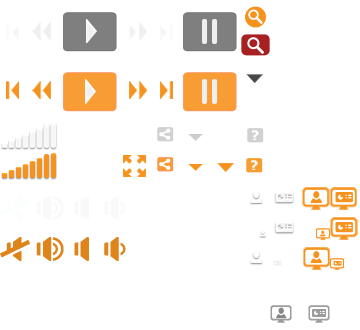
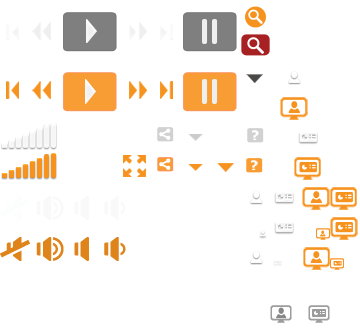
MH-5899, MH-5936, MH-5938, MH-5943, MH-5952
git-svn-id: https://opencast.jira.com/svn/MH/trunk@9336 e6edf6fb-f266-4316-afb4-e53d95876a76

Changed region(s): [[0.7944, 0.3939, 0.9167, 0.5455], [0.7639, 0.2727, 0.8556, 0.3636]]

diff --git a/shared-resources/player/engage-hybrid-player/css/player-multi-hybrid-icons.css b/shared-resources/player/engage-hybrid-player/css/player-multi-hybrid-icons.css
@@ -84,7 +84,7 @@ input
   text-decoration: underline;
 }
 #oc_series a:hover {
-  text-decoration: none; 
+  text-decoration: none;
 }
 
 
@@ -101,7 +101,7 @@ input
   height:                   40px;
 }
 
-.oc_btn-skip-backward:hover, .oc_btn-skip-backward:focus 
+.oc_btn-skip-backward:hover, .oc_btn-skip-backward:focus
 {
   background-position: 0px -69px;
 }
@@ -124,7 +124,7 @@ input
   width:                    60px;
   height:                   40px;
 }
-.oc_btn-play:hover, .oc_btn-play:focus 
+.oc_btn-play:hover, .oc_btn-play:focus
 {
   background-position: -60px -72px;
 }
@@ -160,7 +160,7 @@ input
   height:                   40px;
 }
 
-.oc_btn-skip-forward:hover, .oc_btn-skip-forward:focus 
+.oc_btn-skip-forward:hover, .oc_btn-skip-forward:focus
 {
   background-position: -150px -69px;
 }
@@ -175,7 +175,7 @@ input
   height:                   30px;
 }
 
-.oc_btn-volume-high:hover, .oc_btn-volume-high:focus 
+.oc_btn-volume-high:hover, .oc_btn-volume-high:focus
 {
   background-position: -30px -234px;
 }
@@ -189,7 +189,7 @@ input
   height:                   30px;
 }
 
-.oc_btn-volume-mute:hover, .oc_btn-volume-mute:focus 
+.oc_btn-volume-mute:hover, .oc_btn-volume-mute:focus
 {
   background-position: 0px -234px;
 }
@@ -203,7 +203,7 @@ input
   height:                   30px;
 }
 
-.oc_btn-volume-low:hover, .oc_btn-volume-low:focus 
+.oc_btn-volume-low:hover, .oc_btn-volume-low:focus
 {
   background-position: -98px -234px;
 }
@@ -217,7 +217,7 @@ input
   height:                   30px;
 }
 
-.oc_btn-volume-none:hover, .oc_btn-volume-none:focus 
+.oc_btn-volume-none:hover, .oc_btn-volume-none:focus
 {
   background-position: -68px -234px;
 }
@@ -231,19 +231,25 @@ input
 
 .oc_btn-singleDisplay-presenter
 {
-  background:               url("../img/oc_icons_2.png") no-repeat -240px -300px transparent;
+  background:               url("../img/oc_icons_2.png") no-repeat -270px -65px transparent;
   width:                    60px;
   height:                   30px;
   margin-right:             5px;
   margin-left:              5px;
 }
+.oc_btn-singleDisplay-presenter:focus, .oc_btn-singleDisplay-presenter:hover {
+background-position: -270px -95px;
+}
 .oc_btn-singleDisplay-presentation
 {
-  background:               url("../img/oc_icons_2.png") no-repeat -300px -300px transparent;
+  background:               url("../img/oc_icons_2.png") no-repeat -270px -125px transparent;
   width:                    60px;
   height:                   30px;
   margin-right:             5px;
   margin-left:              5px;
+}
+.oc_btn-singleDisplay-presentation:focus, .oc_btn-singleDisplay-presentation:hover {
+background-position: -270px -155px;
 }
 
 #oc_btn-singleDisplay {
@@ -273,6 +279,9 @@ input
   margin-right:             5px;
   margin-left:              5px;
 }
+.oc_btn-bigLeftDisplay:focus, .oc_btn-bigLeftDisplay:hover {
+background-position: -300px -245px;
+}
 
 .oc_btn-centerDisplay
 {
@@ -282,6 +291,9 @@ input
   margin-right:             5px;
   margin-left:              5px;
 }
+.oc_btn-centerDisplay:focus, .oc_btn-centerDisplay:hover {
+background-position: -300px -185px;
+}
 
 .oc_btn-bigRightDisplay
 {
@@ -290,6 +302,9 @@ input
   height:                   30px;
   margin-right:             5px;
   margin-left:              5px;
+}
+.oc_btn-bigRightDisplay:focus, .oc_btn-bigRightDisplay:hover {
+background-position: -300px -215px;
 }
 
 .oc_btn-audioDisplay
@@ -316,5 +331,7 @@ input
   display:                  inline;
 }
 
+#oc_btn-volume, #oc_btn-volume:focus, #oc_btn-volume::-moz-focus-inner { outline: none; border: 0px; }
 #oc_time-chooser { width: 30px; height: 10px; background: url("../img/oc_icons_2.png") no-repeat -180px -132px transparent;}
 #oc_time-chooser:hover, #oc_time-chooser:focus  { background-position: -180px -162px;}
+.oc_btn-close { position: absolute; top: -5px; right: -5px; padding: 0px; width: 20px!important; height: 20px!important;}

diff --git a/shared-resources/player/engage-hybrid-player/player-multi-hybrid-initialize.js b/shared-resources/player/engage-hybrid-player/player-multi-hybrid-initialize.js
@@ -460,7 +460,7 @@ Opencast.Initialize = (function ()
             $('#oc_ui_tabs').tabs('selected' , -1);
             $(".ui-tabs-selected").removeClass("ui-state-active").removeClass("ui-tabs-selected");
         });
-        
+
         $('#oc_btn-rewind').mousedown(function ()
         {
             if (!locked)
@@ -616,6 +616,54 @@ Opencast.Initialize = (function ()
             }
         	$('#oc_embed-costum-height-textinput').css('background-color','#ffffff');
         });
+
+        /* initalise embed buttons */
+        $( "#oc_embed-icon-one, #oc_embed-icon-two, #oc_embed-icon-three, #oc_embed-icon-four, #oc_embed-icon-five", "#oc_embed-left" ).button();
+        /* initalise search button */
+        $( "#oc_btn-search", "#oc_search" ).button();
+        /* initalise share button
+        $( "#oc_share-button, #oc_shortcut-button", "#oc_player-head-right" ).button(); */
+        /* initalise share button */
+        $( "#oc_btn-cc", "#oc_video-time" ).button();
+
+        $('#oc_btn-leave-share, #oc_btn-leave-session-time').button({
+          icons: { primary: 'ui-icon-close'},
+          text: false
+          });
+        $('#oc_btn-leave-share, #oc_btn-leave-session-time').click(function() {
+          Opencast.Player.doToggleShare();
+        });
+
+
+        /* initalise closed tabs */
+        $("#oc_ui_tabs").tabs({ selected: -1});
+        $("#oc_ui_tabs").tabs( "option", "collapsible", true );
+        /* handle select event for each tab */
+        $("#oc_ui_tabs").tabs({
+            select: function(event, ui)
+            {
+              switch(ui.index)
+              {
+                case 0: Opencast.Description.doToggleDescription(); break;
+                case 1: Opencast.Player.doToggleSlides(); break;
+                case 2: Opencast.Player.doToggleSlideText(); break;
+              }
+            }
+        });
+        $("#oc_ui_tabs .ui-tabs-nav li").last().css('float', 'right');
+        //bind click functions
+        $('#oc_share-button').click(function(e) { Opencast.Player.doToggleShare(e); });
+        $('#oc_btn-email').click(function() { Opencast.Player.doToggleShare(); });
+        $('#oc_time-chooser').click(function() { Opencast.Player.doToggleTimeLayer(); });
+        $('#oc_checkbox-statistics').click(function() { Opencast.Analytics.doToggleAnalytics();});
+        $('#oc_checkbox-annotations').click(function() { Opencast.Annotation_Chapter.doToggleAnnotation_Chapter();});
+        //bind click events to show dialog
+        $('#oc_shortcuts').dialog({ autoOpen: false, width: 600});
+        $('#oc_shortcut-button').click(function(e) {Opencast.Player.doToggleShortcuts(e, 'oc_shortcut-button');});
+        $('#oc_embed').dialog({ autoOpen: false, width: 800});
+        $('#oc_btn-embed').click(function() {Opencast.Player.doToggleEmbed();});
+        $('#oc_series').hide();
+        $('#oc_see-more-button').click(function(e) {Opencast.Series.doToggleSeriesDropdown()});
 
 
         onPlayerReadyListener();
@@ -1026,6 +1074,7 @@ Opencast.Initialize = (function ()
     	});
       $('.oc_embed-icon').click(function() {
         $('#oc_embed-textarea').select();
+        $(this).removeClass('ui-state-focus');
         });
 
     	var embedCustomMinHeight = Math.round(MINWIDTH / getMaxFormat()) + OTHERDIVHEIGHT;

diff --git a/shared-resources/player/engage-hybrid-player/css/player-multi-hybrid.css b/shared-resources/player/engage-hybrid-player/css/player-multi-hybrid.css
@@ -32,6 +32,8 @@ text-decoration: none;
 a:hover {
 text-decoration: underline;
 }
+
+
 #oc_title-bar
 {
   min-width:                760px;
@@ -158,11 +160,12 @@ color: #000;
 }
 #oc_body {
   margin-bottom: 30px;
+  padding: 0;
 }
 
 #oc_ui_tabs
 {
-  margin-top: 5px;
+  margin-top: 45px;
   margin-bottom: 5px;
 }
 
@@ -212,6 +215,7 @@ color: #000;
   border:                   1px solid #000;
   color:                    #FFF;
   padding:                  5px;
+  text-align:               center;
 }
 
 .oc_current-time-hide
@@ -226,6 +230,7 @@ color: #000;
   border:                   1px solid #000;
   color:                    #000;
   padding:                  5px;
+  text-align:               center;
 }
 
 .oc_edit-time-error
@@ -372,11 +377,12 @@ color: #000;
   height:                   33px;
 }
 
-.oc_tabs
+#oc_tabs-head
 {
-  float:                    left;
+  margin-top: -42px;
+  border: none;
+  background: transparent;
 }
-
 #oc_tabs-search
 {
   float:                    right;
@@ -869,6 +875,13 @@ option:hover
   margin-left:              10px;
   width:                    25%;
 }
+#oc_embed-right label
+{
+  display: block;
+  width: 50px;
+  float: left;
+
+}
 #oc_costum-width
 {
   flaot:                    left;
@@ -908,7 +921,6 @@ option:hover
 
 #oc_embed-custom-title
 {
-  text-align:               center;
   margin-bottom:            4px;
 }
 

diff --git a/shared-resources/player/engage-hybrid-player/css/opencast-reset.css b/shared-resources/player/engage-hybrid-player/css/opencast-reset.css
@@ -41,7 +41,6 @@ h1 {
 h2 {
     /*16px via YUI Fonts CSS foundation*/
     font-size:123.1%; 
-    color: #2D8F8B;
 }
 h3 {
     /*14px via YUI Fonts CSS foundation*/
@@ -117,12 +116,12 @@ input {
 
 div input:focus
 {
-	outline: 2px solid #FA6E23;
+	outline: none;
 }
 
 span:focus
 {
-	outline: 2px solid #FA6E23;
+	outline: none;
 }
 
 
